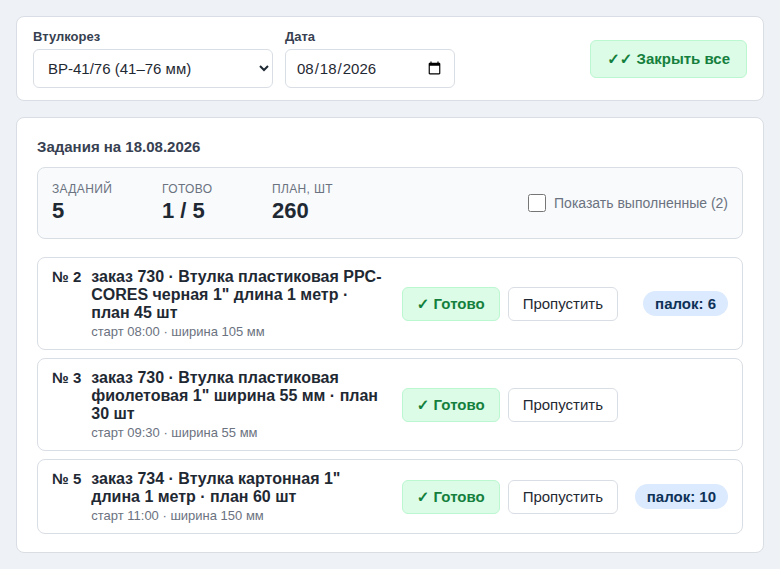
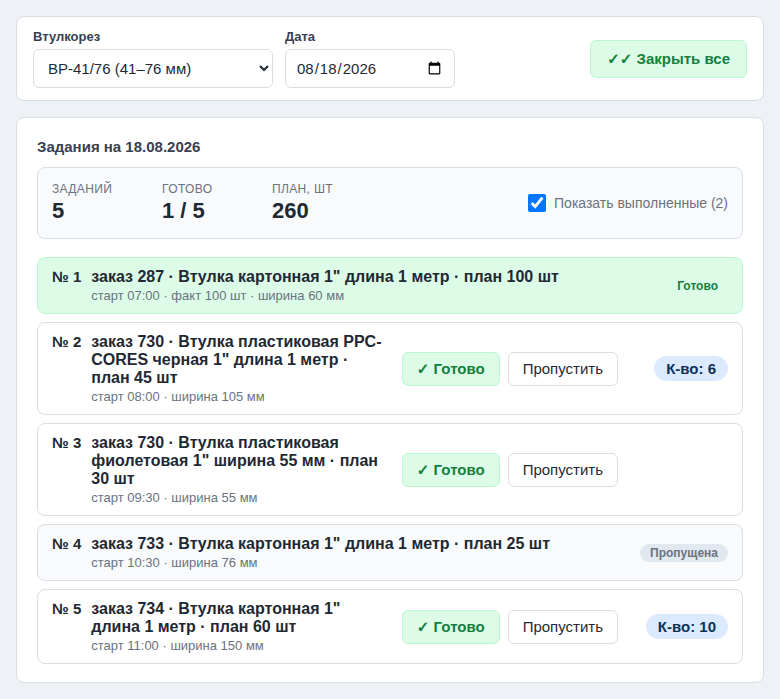
fix(atex-sc #4786): подпись бейджа «К-во» + сторож стилей вместо проверок по тексту
Подпись бейджа на карточке — «К-во: N» (решение заказчика): слово «палок» из плашки убрано,
пояснение про метровые заготовки осталось в подсказке.

Гейт `text-assertions` (#4751) справедливо покраснел на четырёх проверках. Три из них смотрят,
есть ли у новых классов карточки правила в `sleeve-cutter.css`; четвёртая искала снятый класс
`.atex-sc-badge-wip` в тексте js и css — она лишняя: что этого узла в разметке живого задания
больше нет, уже сказано ПОВЕДЕНИЕМ (DOM-тест рисует карточку и не находит его). Убрал.

TEXT-ASSERT-OK: правило стиля исполняет браузер, которого в гейте нет, — заменить эти три
проверки поведением в Node нечем. Ловят они реальную поломку: класс, переименованный ТОЛЬКО в
css, оставляет бейдж без вида, и оператор молча теряет сигнал (грабли #4409). Обратный случай —
переименование только в js — ловится DOM-тестом, он ищет узел по тому же имени класса.

Скриншот в документации переснят под новую подпись.

Vecmory-Session: 4435d65b-cab1-406c-abf9-abf6aa266e88

diff --git a/download/atex/js/sleeve-cutter.js b/download/atex/js/sleeve-cutter.js
@@ -765,9 +765,9 @@
             if (sticks != null) {
                 card.appendChild(el('span', {
                     class: 'atex-sc-badge atex-sc-badge-sticks',
-                    title: 'Метровых заготовок под это задание: план ' + core.toNumber(task.planQty)
+                    title: 'Метровых заготовок (палок) под это задание: план ' + core.toNumber(task.planQty)
                         + ' шт × ширина ' + core.toNumber(task.widthMm) + ' мм × 1.1 / 1000 → ' + sticks,
-                    text: 'палок: ' + sticks
+                    text: 'К-во: ' + sticks
                 }));
             }
         }

diff --git a/docs/atex_workplaces.md b/docs/atex_workplaces.md
@@ -637,7 +637,7 @@ API-операции и критерии приёмки.
   14px не читались. Бейдж статуса **«В работе»/«Ожидает» снят** — состояние живого задания и
   так видно по кнопкам «Готово»/«Пропустить». Его место занял счёт заготовок: втулку, у
   записи которой в справочнике «Диаметр втулки» **снята галка «Готовые»**, режут из метровых
-  палок, и на карточке стои́т **«палок: N»**, где
+  палок, и на карточке стои́т **«К-во: N»** (подпись по решению заказчика), где
   **N = ⌈план × ширина рулона × 1.1 / 1000⌉** (решение заказчика 18.08.2026: палка длиной
   1000 мм режется по ширине рулона, 1.1 — запас на рез и брак; в подсказке бейджа — сама
   арифметика). Втулка с галкой «Готовые» приходит нарезанной — у неё бейджа нет вовсе.
